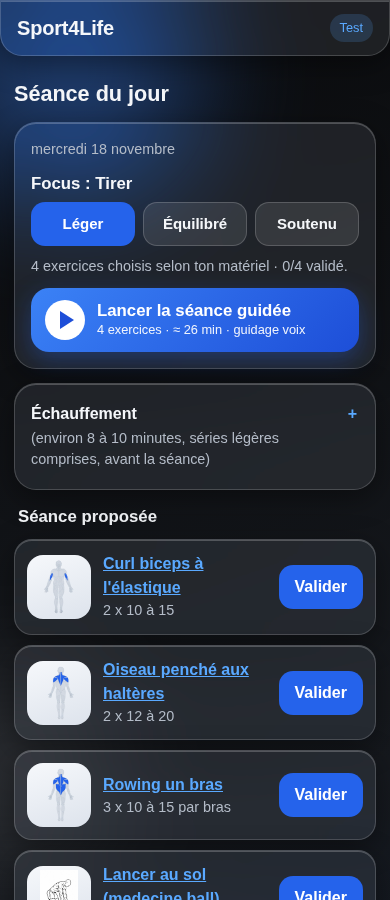
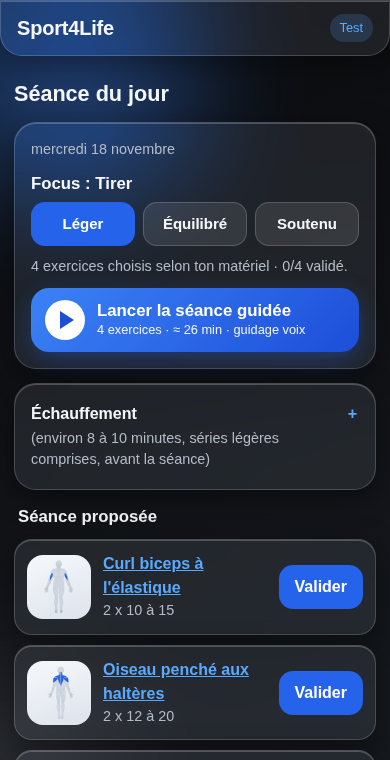
v34: corrections de revue (fiche équilibré = 3 lignes, aléatoire suit l'intensité, séries ajustées dans Composer/Exercices, label et focus, textes)

diff --git a/sport4life-app/app.js b/sport4life-app/app.js
@@ -30,9 +30,9 @@
   // Léger : 1 exercice et 1 série de moins ; Soutenu : 1 exercice et 1 série de plus (2 à 5 séries au total par exercice).
   // L'échauffement, les étirements, les répétitions cibles et les repos ne changent pas.
   var INTENSITES = [
-    { id: "leger", nom: "Léger", exos: 3, delta: -1, desc: "3 exercices, une série de moins par exercice. Pour les jours de fatigue, de reprise ou quand tu es court en temps." },
+    { id: "leger", nom: "Léger", exos: 3, delta: -1, desc: "3 exercices plus 1 de cardio, une série de moins par exercice (2 minimum). Pour les jours de fatigue, de reprise ou quand tu es court en temps." },
     { id: "equilibre", nom: "Équilibré", exos: 4, delta: 0, desc: "4 exercices plus 1 de cardio, séries du catalogue. C'est la séance habituelle." },
-    { id: "soutenu", nom: "Soutenu", exos: 5, delta: 1, desc: "5 exercices, une série de plus par exercice. Pour les jours où tu as du temps et de l'énergie." }
+    { id: "soutenu", nom: "Soutenu", exos: 5, delta: 1, desc: "5 exercices plus 1 de cardio, une série de plus par exercice (5 au maximum). Pour les jours où tu as du temps et de l'énergie." }
   ];
   function exemple() {
     return {
@@ -476,6 +476,9 @@
     if (!alerteDonnees) return "";
     return '<div class="alerte"><strong>Données illisibles.</strong> Tes données enregistrées dans ce navigateur n\'ont pas pu être lues. Je n\'ai rien effacé : une copie brute est gardée. <button class="second" data-sauvegarde="1">Télécharger la copie</button></div>';
   }
+  function champIntensite(p) {
+    return '<label for="intensite" class="titre-champ" style="margin-top:16px;font-size:1.05rem;font-weight:700">Intensité de l\'entraînement</label><select id="intensite" aria-describedby="intensite-desc">' + INTENSITES.map(function (x) { return '<option value="' + x.id + '"' + (intensiteDe(p).id === x.id ? " selected" : "") + ">" + x.nom + "</option>"; }).join("") + '</select><p class="doux petit" id="intensite-desc">' + INTENSITES.map(function (x) { return "<strong>" + x.nom + "</strong> : " + esc(x.desc); }).join("<br>") + "<br>L'échauffement et les étirements restent toujours proposés. Tu peux changer ce réglage à tout moment. Les lignes de séries déjà saisies pour un exercice ne changent pas.</p>";
+  }
   function champsProfil(p) {
     var h = '<label for="nom">Nom</label><input type="text" id="nom" value="' + esc(p.nom) + '">';
     h += '<div class="grille"><div><label for="taille">Taille (cm)</label><input type="text" id="taille" inputmode="decimal" autocomplete="off" value="' + esc(p.taille) + '"></div>';
@@ -485,7 +488,7 @@
     h += '<label for="activite">Niveau d\'activité</label><select id="activite">' + ACTIVITES.map(function (x) {
       return '<option value="' + x[0] + '"' + (p.activite === x[0] ? " selected" : "") + ">" + x[1] + "</option>";
     }).join("") + "</select>";
-    h += '<h3 style="margin-top:16px">Intensité de l\'entraînement</h3><select id="intensite" aria-describedby="intensite-desc">' + INTENSITES.map(function (x) { return '<option value="' + x.id + '"' + (intensiteDe(p).id === x.id ? " selected" : "") + ">" + x.nom + "</option>"; }).join("") + '</select><p class="doux petit" id="intensite-desc">' + INTENSITES.map(function (x) { return "<strong>" + x.nom + "</strong> : " + esc(x.desc); }).join("<br>") + "<br>L'échauffement et les étirements restent toujours proposés. Tu peux changer ce réglage à tout moment.</p>";
+    h += champIntensite(p);
     h += '<h3 style="margin-top:16px">Où t\'entraînes-tu ?</h3><select id="lieu">' +
       [["lesdeux", "Aux deux endroits"], ["maison", "À la maison"], ["exterieur", "En extérieur"]].map(function (x) {
         return '<option value="' + x[0] + '"' + ((p.lieu || "lesdeux") === x[0] ? " selected" : "") + ">" + x[1] + "</option>";
@@ -592,10 +595,16 @@
   function genererAleatoire(p) {
     var ok = EXERCICES.filter(function (e) { return faisable(e, p); });
     var exos = [];
-    melange(["Pousser", "Tirer", "Jambes", "Tronc"]).forEach(function (g) {
+    // Léger : 3 groupes tirés ; Équilibré : 4 groupes (comme en v33) ; Soutenu : 4 groupes + 1 exercice de plus.
+    var gs = melange(["Pousser", "Tirer", "Jambes", "Tronc"]).slice(0, Math.min(4, intensiteDe(p).exos));
+    gs.forEach(function (g) {
       var c = ok.filter(function (e) { return e.groupe === g; });
       if (c.length) exos.push(alea(c).id);
     });
+    if (intensiteDe(p).exos > 4) {
+      var reste = ok.filter(function (e) { return e.groupe !== "Cardio" && exos.indexOf(e.id) === -1; });
+      if (reste.length) exos.push(alea(reste).id);
+    }
     var cardio = ok.filter(function (e) { return e.groupe === "Cardio"; });
     if (cardio.length) exos.push(alea(cardio).id);
     var repas = genererRepas(p);
@@ -796,7 +805,7 @@
       h += "<h3>" + g + "</h3>";
       exos.forEach(function (e) {
         var on = choisis.indexOf(e.id) !== -1;
-        h += '<div class="exo verre">' + vignette(e) + '<div class="corps"><a href="#/exercice/' + e.id + '"><strong>' + esc(e.nom) + "</strong></a><div class=\"doux\">" + esc(e.series) + "</div></div>" +
+        h += '<div class="exo verre">' + vignette(e) + '<div class="corps"><a href="#/exercice/' + e.id + '"><strong>' + esc(e.nom) + "</strong></a><div class=\"doux\">" + esc(adapter(e, p).series) + "</div></div>" +
           '<button class="' + (on ? "" : "second") + '" data-perso="' + e.id + '" aria-pressed="' + on + '">' + (on ? "Choisi ✓" : "Ajouter") + "</button></div>";
       });
     });
@@ -916,7 +925,7 @@
     if (!liste.length) h += '<div class="carte verre"><p>Aucun exercice avec ce matériel dans ce groupe. Ajoute du matériel dans le <a href="#/profil">profil</a>.</p></div>';
     liste.forEach(function (e) {
       var ok = faisable(e, p);
-      h += '<a class="exo verre" href="#/exercice/' + e.id + '">' + vignette(e) + '<div class="corps"><strong>' + esc(e.nom) + '</strong><div class="doux">' + esc(e.groupe) + " · " + esc(e.series) + "</div><div>" + etiquettesMat(e) + (ok ? "" : '<span class="etiquette">Matériel manquant</span>') + "</div></div></a>";
+      h += '<a class="exo verre" href="#/exercice/' + e.id + '">' + vignette(e) + '<div class="corps"><strong>' + esc(e.nom) + '</strong><div class="doux">' + esc(e.groupe) + " · " + esc(adapter(e, p).series) + "</div><div>" + etiquettesMat(e) + (ok ? "" : '<span class="etiquette">Matériel manquant</span>') + "</div></div></a>";
     });
     h += '<p class="doux">' + liste.length + " exercice" + (liste.length > 1 ? "s" : "") + " affiché" + (liste.length > 1 ? "s" : "") + " sur " + EXERCICES.length + ".</p>";
     vue.innerHTML = h;
@@ -943,7 +952,7 @@
     var pf = profil(), serie = seriesOverride;
     if (!serie) {
       var auj = pf.journal[aujourdhui()] && pf.journal[aujourdhui()][e.id], der = derniereSeance(pf, e.id);
-      serie = auj && auj.length ? auj : der ? der.series : (function () { var m = (e.series || "").match(/^\s*(\d+)\s*x/i), n = m ? Math.max(1, Math.min(6, parseInt(m[1], 10))) : 3, t = []; for (var i = 0; i < n; i++) t.push({ r: "", k: "" }); return t; })();
+      serie = auj && auj.length ? auj : der ? der.series : (function () { var m = (e.series || "").match(/^\s*(\d+)\s*x/i), n = Math.max(2, Math.min(5, 3 + intensiteDe(pf).delta)), t = []; for (var i = 0; i < n; i++) t.push({ r: "", k: "" }); return t; })();
       serie = serie.map(function (x) { return { r: x.r, k: x.k }; });
     }
     h += blocSeries(pf, e, serie, note);
@@ -1019,7 +1028,7 @@
     h += '<label for="activite">Niveau d\'activité</label><select id="activite">' + ACTIVITES.map(function (a) {
       return '<option value="' + a[0] + '"' + (p.activite === a[0] ? " selected" : "") + ">" + a[1] + "</option>";
     }).join("") + "</select>";
-    h += '<h3 style="margin-top:16px">Intensité de l\'entraînement</h3><select id="intensite" aria-describedby="intensite-desc">' + INTENSITES.map(function (x) { return '<option value="' + x.id + '"' + (intensiteDe(p).id === x.id ? " selected" : "") + ">" + x.nom + "</option>"; }).join("") + '</select><p class="doux petit" id="intensite-desc">' + INTENSITES.map(function (x) { return "<strong>" + x.nom + "</strong> : " + esc(x.desc); }).join("<br>") + "<br>L'échauffement et les étirements restent toujours proposés. Tu peux changer ce réglage à tout moment.</p>";
+    h += champIntensite(p);
     h += '<h3 style="margin-top:16px">Où t\'entraînes-tu ?</h3><select id="lieu">' +
       [["lesdeux", "Aux deux endroits"], ["maison", "À la maison"], ["exterieur", "En extérieur"]].map(function (x) {
         return '<option value="' + x[0] + '"' + ((p.lieu || "lesdeux") === x[0] ? " selected" : "") + ">" + x[1] + "</option>";
@@ -1119,7 +1128,7 @@
   vue.addEventListener("click", function (ev) {
     var t = ev.target.closest("button");
     if (!t) return;
-    if (t.dataset.intensite) { var pi = profil(); if (pi && INTENSITES.some(function (x) { return x.id === t.dataset.intensite; })) { pi.intensite = t.dataset.intensite; sauver(); route(true); } return; }
+    if (t.dataset.intensite) { var pi = profil(); if (pi && INTENSITES.some(function (x) { return x.id === t.dataset.intensite; })) { pi.intensite = t.dataset.intensite; sauver(); route(true); var bf = vue.querySelector('[data-intensite="' + pi.intensite + '"]'); if (bf) bf.focus(); } return; }
     if (t.dataset.sauvegarde) { telechargerSauvegarde(); return; }
     if (t.dataset.exemple) {
       var ex = exemple(); etat.profils.push(ex); etat.actif = ex.id; sauver(); route(); return;
